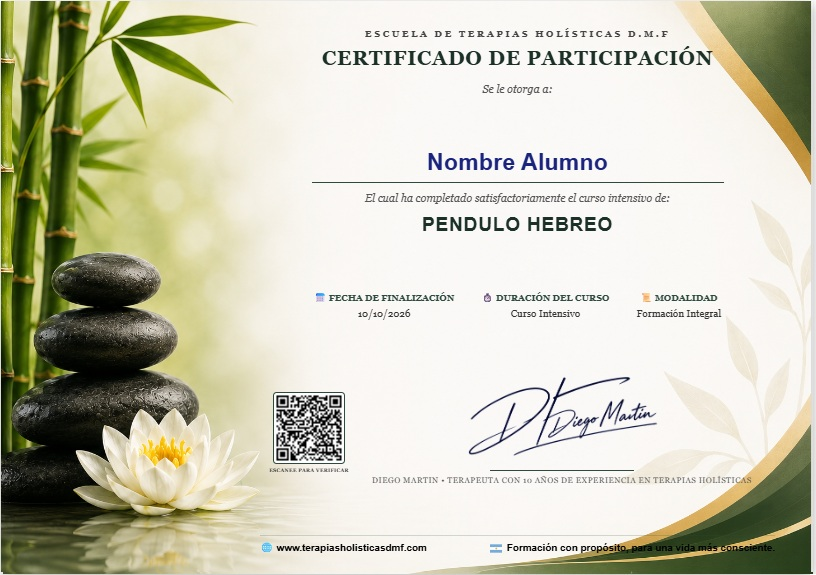
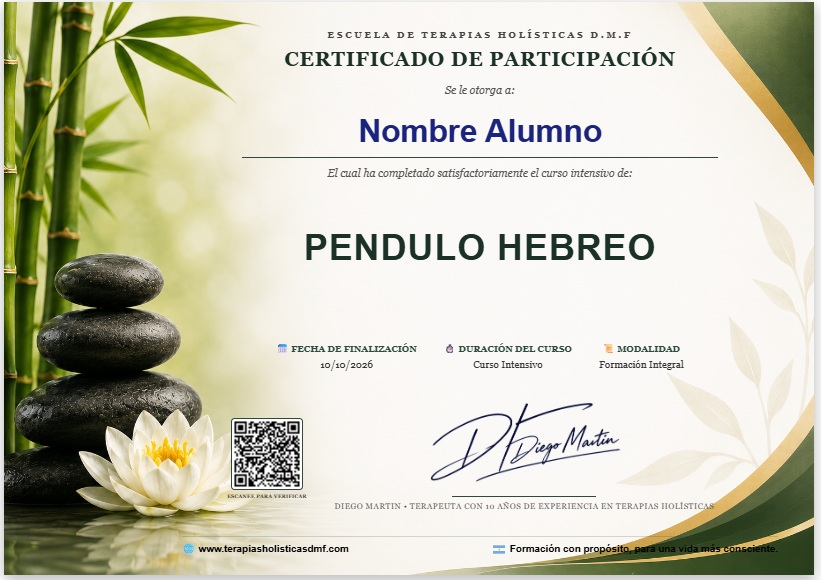
actualizar

diff --git a/src/App.tsx b/src/App.tsx
@@ -398,7 +398,7 @@ export const MainApp: React.FC = () => {
             <div id="printable-certificate" style={{ width: '100%', maxWidth: '900px', aspectRatio: '1.414 / 1', position: 'relative', margin: '0 auto', boxShadow: '0 4px 15px rgba(0,0,0,0.3)', overflow: 'hidden', boxSizing: 'border-box', backgroundColor: '#fff' }}>
               <img src={imagenCertificado} alt="Fondo Certificado" style={{ position: 'absolute', top: 0, left: 0, width: '100%', height: '100%', objectFit: 'cover', zIndex: 1 }} />
               
-              <div style={{ position: 'absolute', top: 0, left: 0, width: '100%', height: '100%', zIndex: 2, display: 'flex', flexDirection: 'column', justifyContent: 'space-between', alignItems: 'center', textAlign: 'center', padding: '30px 40px 20px 32%', boxSizing: 'border-box', fontFamily: 'Georgia, serif' }}>
+              <div style={{ position: 'absolute', top: 0, left: 0, width: '100%', height: '100%', zIndex: 2, display: 'flex', flexDirection: 'column', justifyContent: 'space-between', alignItems: 'center', textAlign: 'center', padding: '30px 40px 20px 22%', boxSizing: 'border-box', fontFamily: 'Georgia, serif' }}>
                 
                 <div>
                   <p style={{ fontSize: '10px', letterSpacing: '3px', color: '#444', margin: '0 0 3px 0', textTransform: 'uppercase', fontWeight: 'bold' }}>ESCUELA DE TERAPIAS HOLÍSTICAS D.M.F</p>
@@ -407,12 +407,15 @@ export const MainApp: React.FC = () => {
                 </div>
 
                 <div style={{ width: '100%' }}>
-                  <h1 style={{ borderBottom: '2px solid #2C4A3E', color: '#1a237e', margin: '0 auto 8px auto', fontSize: '26px', fontWeight: 'bold', paddingBottom: '2px', width: '80%', fontFamily: 'Arial, sans-serif' }}>
+                  {/* 👇 PARA SUBIR/BAJAR EL NOMBRE DEL ALUMNO: Modifica el primer valor del 'margin' (ej: '-10px auto 8px auto' para subirlo) */}
+                  <h1 style={{ borderBottom: '2px solid #2C4A3E', color: '#1a237e', margin: '-15px auto 8px auto', fontSize: '35px', fontWeight: 'bold', paddingBottom: '2px', width: '80%', fontFamily: 'Arial, sans-serif' }}>
                     {nombreAlumnoCert || 'Nombre del Estudiante'}
                   </h1>
+                  
                   <p style={{ color: '#555', fontSize: '12px', margin: '0 0 5px 0', fontStyle: 'italic' }}>El cual ha completado satisfactoriamente el curso intensivo de:</p>
                   
-                  <h3 style={{ color: '#1B3026', fontSize: '21px', margin: '0', textTransform: 'uppercase', letterSpacing: '1px', fontWeight: 'bold', fontFamily: 'Arial, sans-serif' }}>
+                  {/* 👇 PARA SUBIR/BAJAR EL NOMBRE DE LA TERAPIA: Modifica el primer valor del 'margin' (ej: '12px 0 0 0' para bajarlo) */}
+                  <h3 style={{ color: '#1B3026', fontSize: '40px', margin: '45px', textTransform: 'uppercase', letterSpacing: '1px', fontWeight: 'bold', fontFamily: 'Arial, sans-serif' }}>
                     {esPackHolistico ? terapiaElegidaPack : tituloCursoActual}
                   </h3>
                 </div>
@@ -433,7 +436,7 @@ export const MainApp: React.FC = () => {
                 </div>
 
                 {/* ✍ SECCIÓN DE FIRMA DIGITALIZADA Y CÓDIGO QR DE VERIFICACIÓN */}
-                <div style={{ display: 'flex', justifyContent: 'space-between', alignItems: 'center', width: '100%', marginTop: '5px', padding: '0 10px', boxSizing: 'border-box' }}>
+                <div style={{ display: 'flex', justifyContent: 'space-between', alignItems: 'center', width: '100%', marginTop: '5px', padding: '0 50px', boxSizing: 'border-box' }}>
                   
                   {/* CÓDIGO QR DINÁMICO DE VERIFICACIÓN */}
                   <div style={{ display: 'flex', flexDirection: 'column', alignItems: 'center', justifyContent: 'center' }}>
